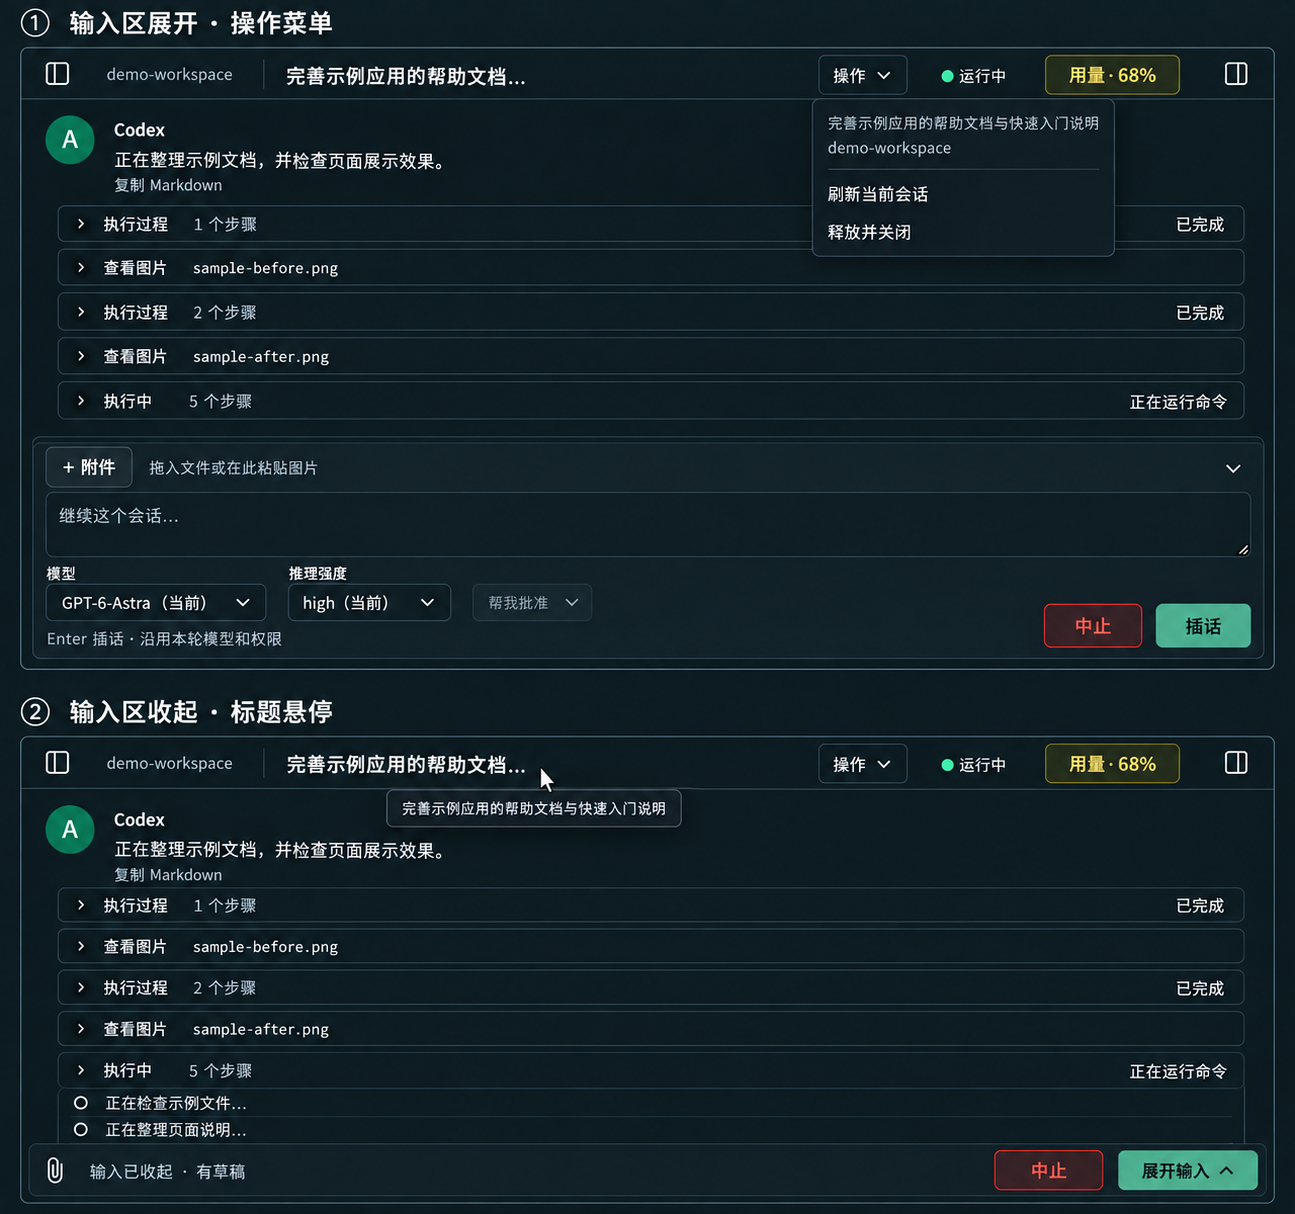
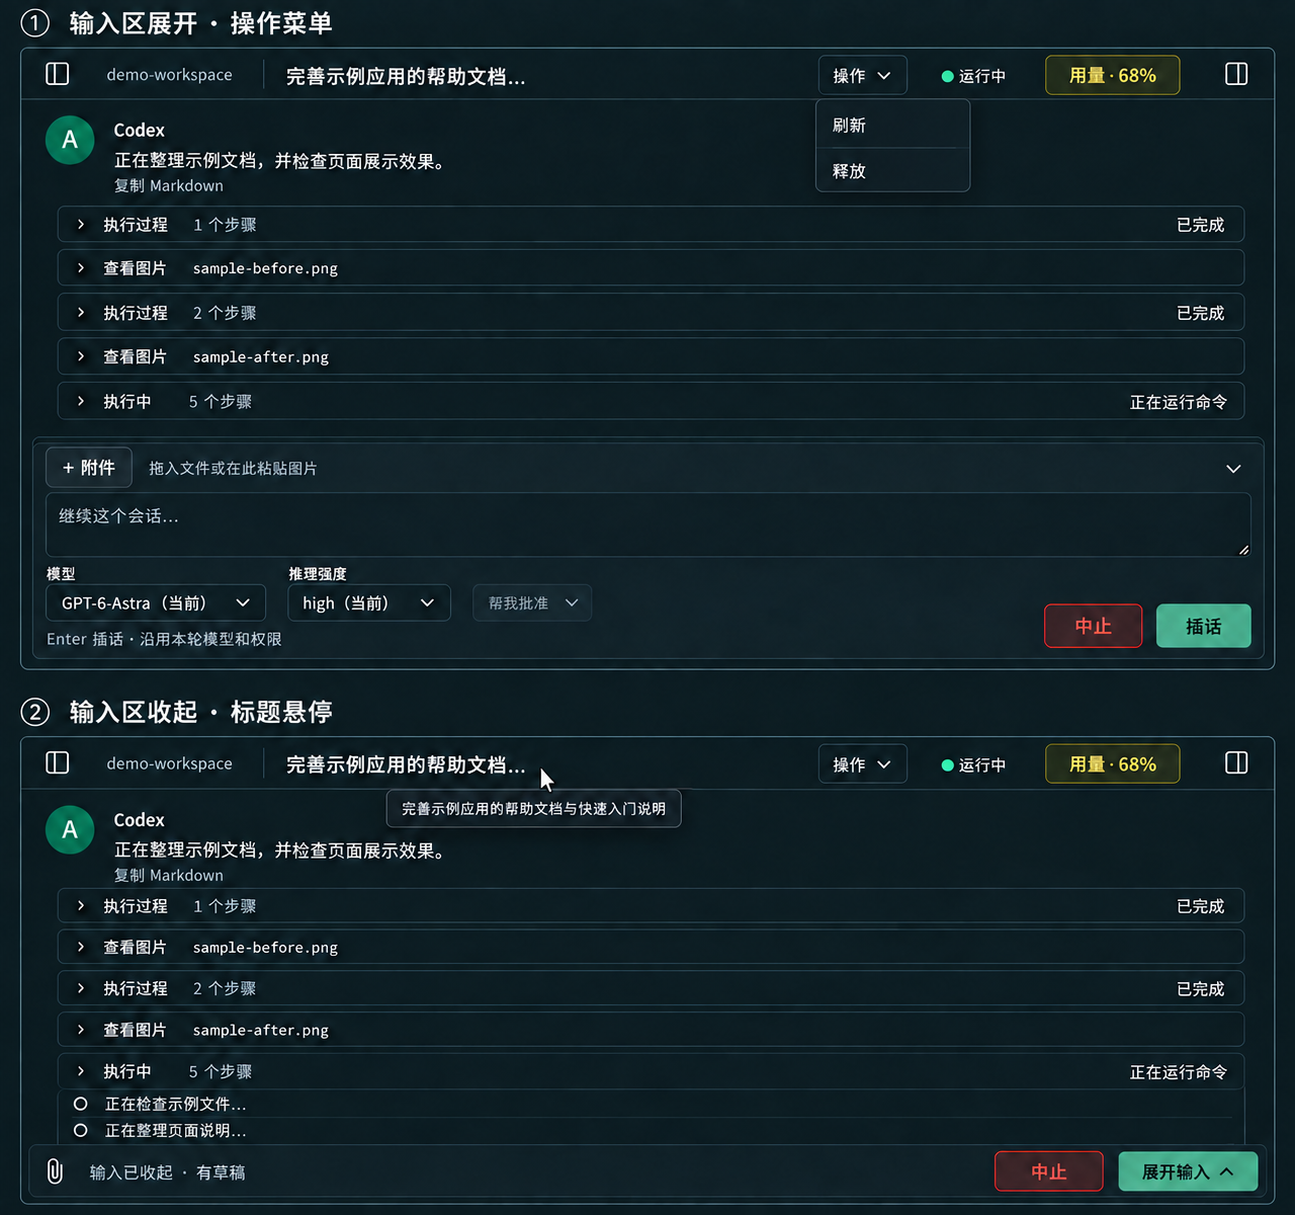
精简会话操作菜单为刷新和释放

diff --git a/docs/design/session-workspace.md b/docs/design/session-workspace.md
@@ -8,13 +8,13 @@
 
 **状态：仅完成设计，尚未实施。** 本节以用户提供的会话页标注截图为依据；红框指会话信息区，黄框指输入区右上角入口，绿框指输入区。色框不进入正式界面。确认后，本节替代此前相关标题、路径及按钮布局规定，其他流程保持现有行为。
 
-### 当前原型图（第四版）
+### 当前原型图（第四版，操作菜单精简修订）
 
 ![固定单行顶栏：项目名与短标题、统一操作菜单、标题悬停全文，以及输入区展开和收起示意](../assets/session-toolbar-v4.png)
 
 [查看第四版原图](../assets/session-toolbar-v4.png)。此图替代前三版的顶部设计：上图展示输入区展开及操作菜单，下图展示输入区收起及短标题悬停全文。两种状态都只有同一条固定顶栏，没有顶部展开态，也没有顶部折叠按钮；项目名、标题、操作、运行状态、用量依次排列，两端保留侧栏开关。
 
-图片由内置图像生成工具基于脱敏第三版修订，用于确认布局，不是已实现页面截图。图中的标题、项目名、对话、文件名、进度和用量均为虚构演示数据，不使用真实会话内容。生成约束：顶部固定单行，项目名替代固定品牌文字，操作在运行状态之前；菜单内两个动作采用同一视觉样式；悬停短标题展示完整标题。图片仅示意布局与交互，具体间距及异常状态以本节规格为准。
+图片由内置图像生成工具基于脱敏第三版修订，用于确认布局，不是已实现页面截图。图中的标题、项目名、对话、文件名、进度和用量均为虚构演示数据，不使用真实会话内容。生成约束：顶部固定单行，项目名替代固定品牌文字，操作在运行状态之前；菜单只包含同一视觉样式的“刷新”和“释放”，没有会话信息块；悬停短标题展示完整标题。图片仅示意布局与交互，具体间距及异常状态以本节规格为准。
 
 ### 目标与最终修订方向
 
@@ -28,10 +28,10 @@
 
 顶栏使用现有高度，手机触摸区域不低于 44px。原标题/项目区直接删除，不保留第二行、空白占位或额外边框，对话内容紧接顶栏下沿。没有顶部展开按钮；操作菜单的小箭头只用于打开菜单，不能恢复旧标题区。
 
-- 标题随可用宽度单行省略，采用末尾省略号，不按固定字符数裁剪，不让路径样式的长标题撑宽。**鼠标悬停短标题时必须显示完整标题**，优先使用原生 `title` 提示，不新增 tooltip 依赖。完整标题同时保留在可访问名称及“操作”浮层的会话信息中，手机可点操作查看全文，不依赖悬停。标题本身不作为展开或导航按钮。
-- 项目使用项目显示名；缺少名称时取目录末级名称，同时支持 Windows 和 Linux 分隔符。无可用项目时显示“未关联项目”，不把会话 ID 当项目名。完整路径只在会话信息内展示并允许选择复制，目录同名时可据此辨认。
-- 状态在“操作”之后、用量之前，保留文字，不只靠颜色。正常连接时只显示“运行中/空闲/等待审批”等任务状态，不额外重复“已连接”；断线/同步失败优先，完整组合在会话信息内可查看。
-- “操作”使用文字加下拉箭头。浮层顶部为只读完整标题、项目名、完整路径、会话 ID 和完整状态，下方依次为“刷新当前会话”和“释放并关闭”。**两个动作使用完全一致的菜单行样式**：同宽、同高、同内边距、同字号、同文字颜色、同 hover/focus 背景及同禁用样式；不再一个有边框按钮、一个 quiet 文字按钮。信息与动作之间可分隔，两动作之间不做视觉等级区别。复用现有调用、禁用条件和反馈，不增加归档、删除或新确认流程。
+- 标题随可用宽度单行省略，采用末尾省略号，不按固定字符数裁剪，不让路径样式的长标题撑宽。**鼠标悬停短标题时必须显示完整标题**，优先使用原生 `title` 提示，不新增 tooltip 依赖。完整标题保留在 DOM 文本和可访问名称中，不在“操作”内重复展示。标题本身不作为展开或导航按钮。
+- 项目使用项目显示名；缺少名称时取目录末级名称，同时支持 Windows 和 Linux 分隔符。无可用项目时显示“未关联项目”，不把会话 ID 当项目名。完整名称与路径可通过项目名的悬停提示辨认，不在操作菜单中展示。
+- 状态在“操作”之后、用量之前，保留文字，不只靠颜色。正常连接时只显示“运行中/空闲/等待审批”等任务状态，不额外重复“已连接”；断线/同步失败优先，完整组合保留在状态的可访问名称与悬停提示中。
+- “操作”使用文字加下拉箭头。浮层**只有两项：刷新、释放**，不显示标题、项目、路径、会话 ID 或状态等信息块。**两个动作使用完全一致的菜单行样式**：同宽、同高、同内边距、同字号、同文字颜色、同 hover/focus 背景及同禁用样式；不再一个有边框按钮、一个 quiet 文字按钮。菜单按两行内容收紧，不保留原信息区的空白。“刷新”沿用当前会话刷新；“释放”沿用原“释放并关闭”的行为，确认占用已释放后关闭会话页。仅缩短文案，不改变现有调用、禁用条件和反馈，不增加归档、删除或新确认流程。
 - 浮层通过点击外部、Esc 或再次点击入口关闭；切换会话、选中操作时也关闭。刷新进行中的反馈仍在入口/状态处可见，避免菜单关闭后看不到进度。操作下拉不触发项目 Git fetch。
 
 ### 底部：输入区向下收起
@@ -53,7 +53,7 @@
 
 ### 手机与可访问性
 
-- 延续当前断点；在中间栏变窄（包括桌面同时打开两侧栏）时，项目名限制最大宽度并省略，标题使用剩余宽度并省略；两个字段不得挤走右侧控件。顶栏始终单行，不增加第二行；窄屏压缩间距，状态使用短文案，操作入口保留“操作”文字，可省略装饰箭头。完整项目名、标题及状态仍可从操作浮层查看。
+- 延续当前断点；在中间栏变窄（包括桌面同时打开两侧栏）时，项目名限制最大宽度并省略，标题使用剩余宽度并省略；两个字段不得挤走右侧控件。顶栏始终单行，不增加第二行；窄屏压缩间距，状态使用短文案，操作入口保留“操作”文字，可省略装饰箭头。完整文本保留在可访问名称中，手机也不向操作菜单添加信息区。
 - 底部收起/展开与两端侧栏按钮触摸区域至少 44×44px；顶部没有会话折叠按钮。不使用横向滚动承载主要操作。
 - 按钮支持 Enter/Space，具有 `aria-expanded`、`aria-controls` 和可见焦点。菜单复用现有原生 popover 与按钮习惯，支持键盘进出和返回触发点；不嵌套按钮，不将整行包成另一个按钮。
 - 保持当前配色，用低强调箭头而非大片绿色按钮表示折叠。第一版不做高度动画，减少内容抖动；底部恢复栏位于正常布局中，不覆盖最后一条消息，并考虑手机安全区。
@@ -65,7 +65,7 @@
 确认后验证：
 
 1. 桌面、390px 手机、桌面中栏窄宽度：输入区展开和收起均无横向溢出；固定顶栏的项目名、标题、操作、状态、用量顺序正确；没有旧标题区或顶部折叠按钮，消息区紧贴顶栏，用量与两端侧栏按钮没有被挤走。
-2. 长标题、Windows/Linux 路径、同名目录、无项目、加载中和不可用会话的布局正确；悬停短标题可见完整标题，触屏可在操作浮层查看，不修改原生标题或项目；两个操作菜单项的默认、悬停、焦点及禁用样式一致。
+2. 长标题、Windows/Linux 路径、同名目录、无项目、加载中和不可用会话的布局正确；悬停短标题可见完整标题，不修改原生标题或项目；操作菜单只有“刷新”和“释放”，没有信息块或遗留空白，两个菜单项的默认、悬停、焦点及禁用样式一致。
 3. 菜单外部点击/Esc/选中动作/切换会话均关闭；刷新和释放沿用原调用，不附带 fetch 或重复请求。
 4. 草稿、附件、上传中状态、模型/权限选择经收起/展开保留；无多余网络请求、上传中断或隐藏控件获得焦点。
 5. 运行中可中止；断线、占用、失败、提交结果未知、待审批均有可见入口，隐藏输入区不会导致误发送或隐瞒异常。
